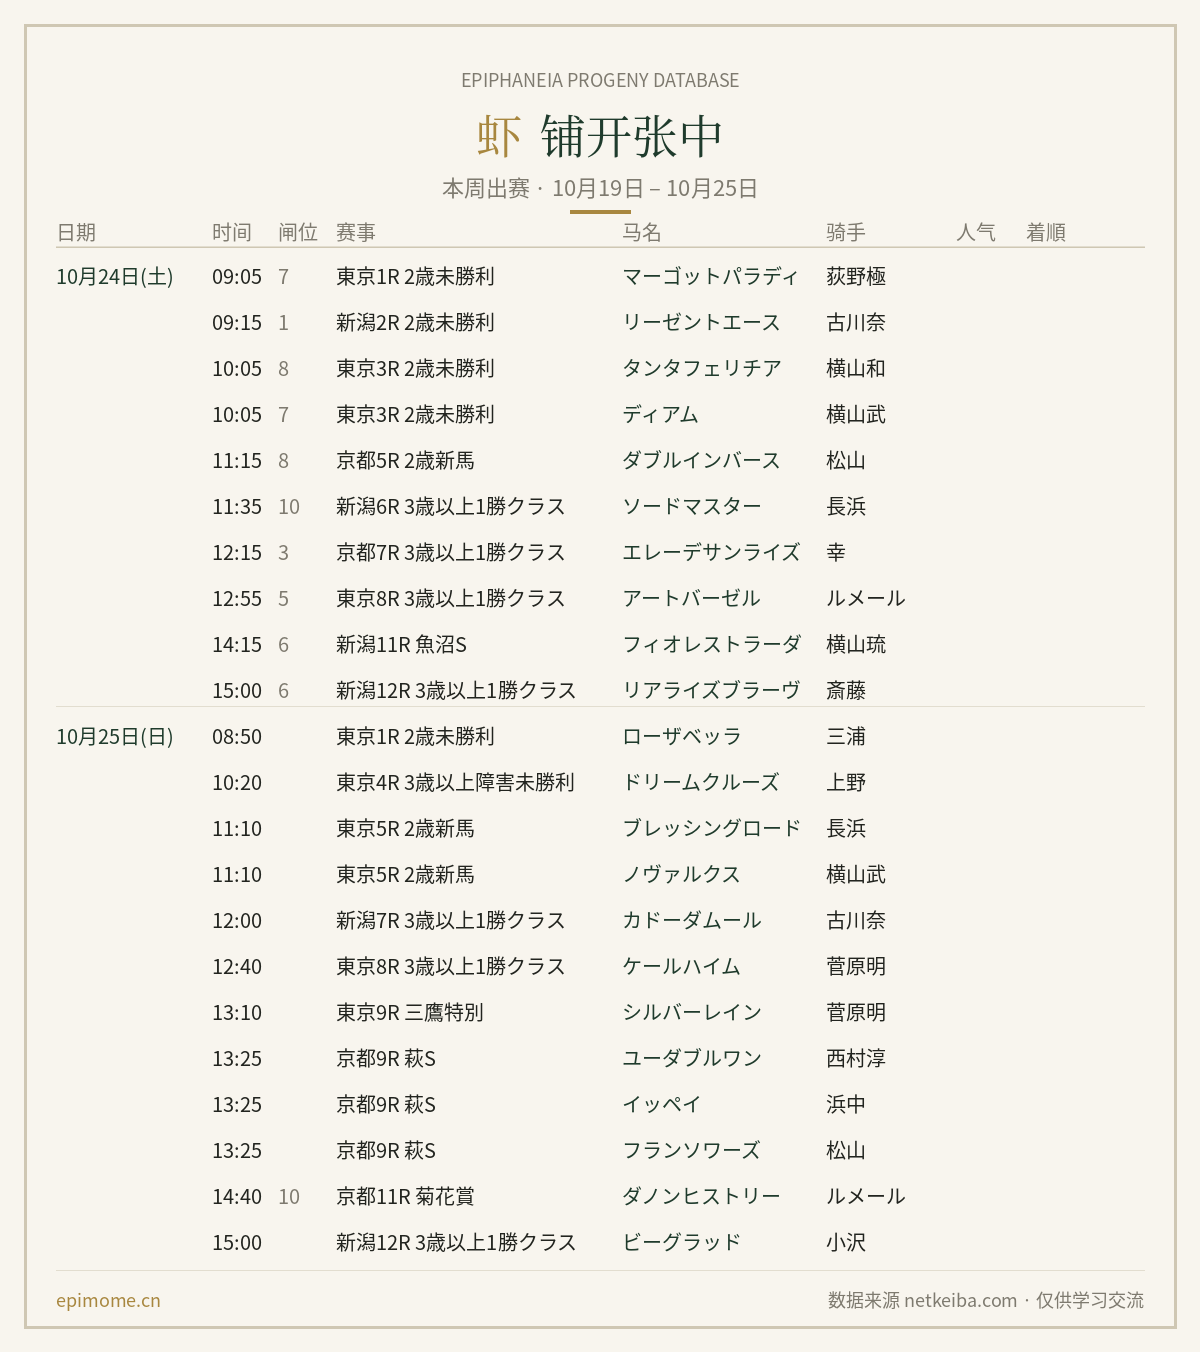
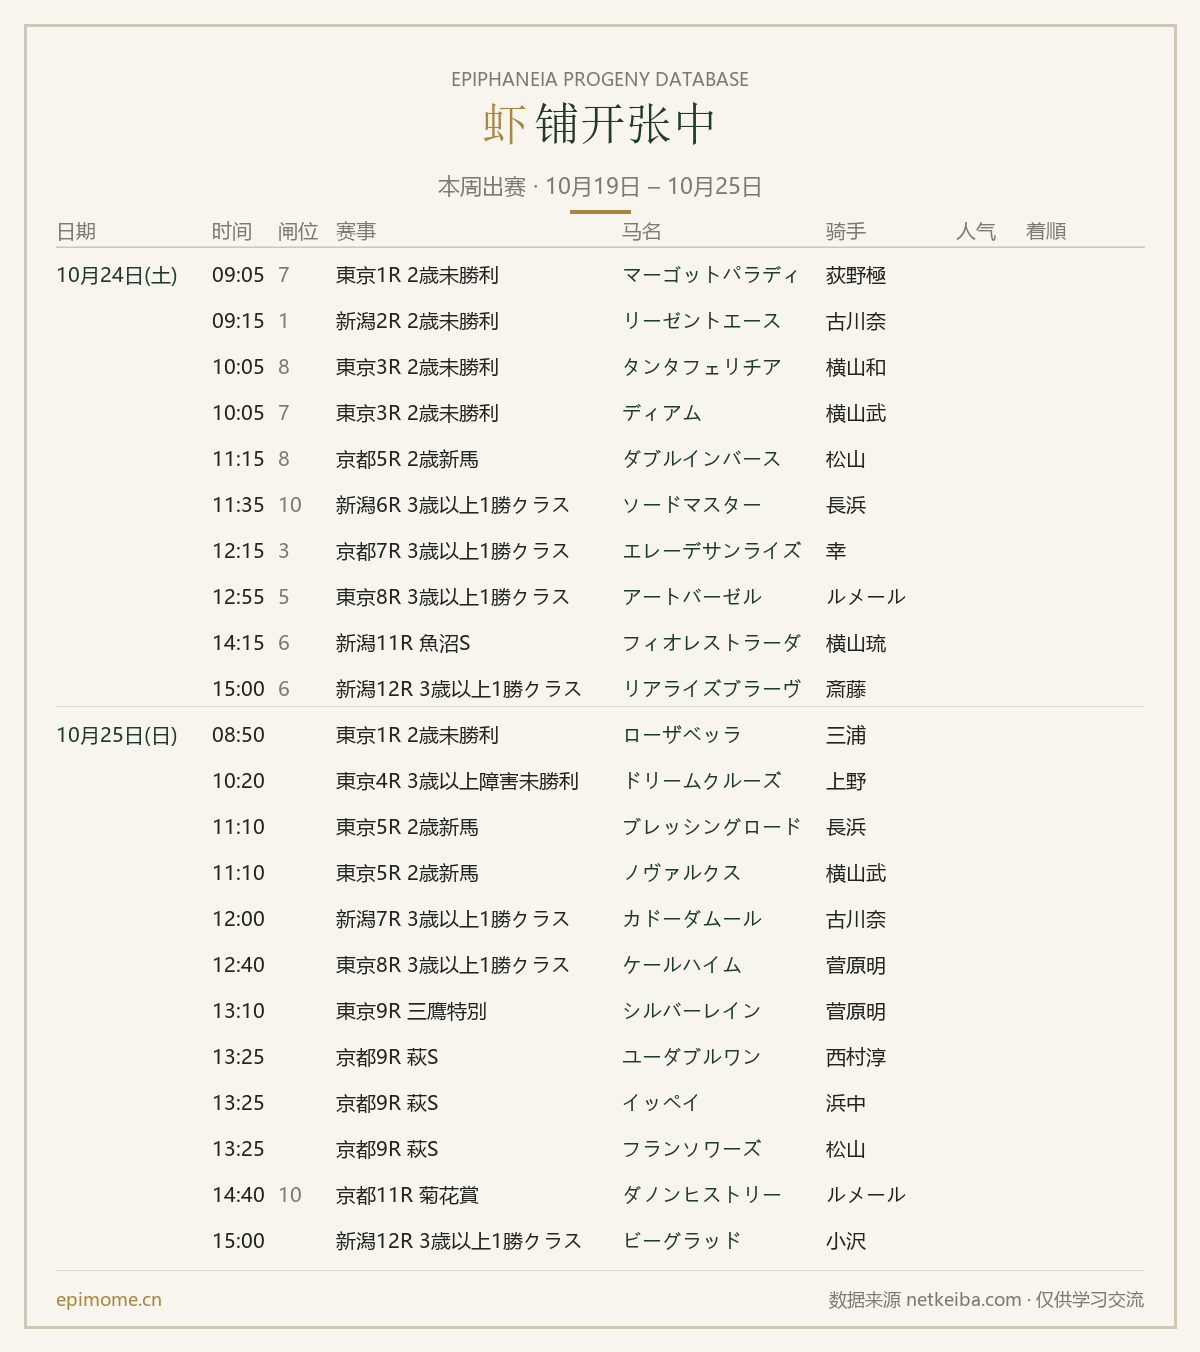
修复数据缓存与图片标题间距
- 给 data/thisweek/updates 等脚本加版本号，避免浏览器读取旧数据
- 新增 _headers，数据文件不缓存在 CDN/浏览器
- 出赛表图片标题「虾」字间距从 18px 改为 6px

diff --git a/index.html b/index.html
@@ -595,11 +595,11 @@
     </div>
   </div>
 
-<script src="data.js"></script>
-<script src="updates.js"></script>
-<script src="thisweek.js"></script>
-<script src="corrections.js"></script>
-<script src="sire-info.js"></script>
+<script src="data.js?v=20261023"></script>
+<script src="updates.js?v=20261023"></script>
+<script src="thisweek.js?v=20261023"></script>
+<script src="corrections.js?v=20261023"></script>
+<script src="sire-info.js?v=20261023"></script>
 <script>
   const data = 产驹数据;
   const PER_PAGE = 20;

diff --git a/scrape_and_build.py b/scrape_and_build.py
@@ -845,9 +845,9 @@ def make_week_image(runners):
     d.text(((W - tw(kicker, f_kick)) / 2, 66), kicker, font=f_kick, fill=MUTED)
     t1, t2 = '虾', '铺开张中'
     w1, w2 = tw(t1, f_title), tw(t2, f_title)
-    x0 = (W - (w1 + 18 + w2)) / 2
+    x0 = (W - (w1 + 6 + w2)) / 2
     d.text((x0, 100), t1, font=f_title, fill=GOLD)
-    d.text((x0 + w1 + 18, 100), t2, font=f_title, fill=GREEN)
+    d.text((x0 + w1 + 6, 100), t2, font=f_title, fill=GREEN)
     sub = f'本周出赛 · {mon.month}月{mon.day}日 – {sun.month}月{sun.day}日'
     d.text(((W - tw(sub, f_sub)) / 2, 170), sub, font=f_sub, fill=MUTED)
     d.rectangle([W // 2 - 30, 210, W // 2 + 30, 213], fill=GOLD)
